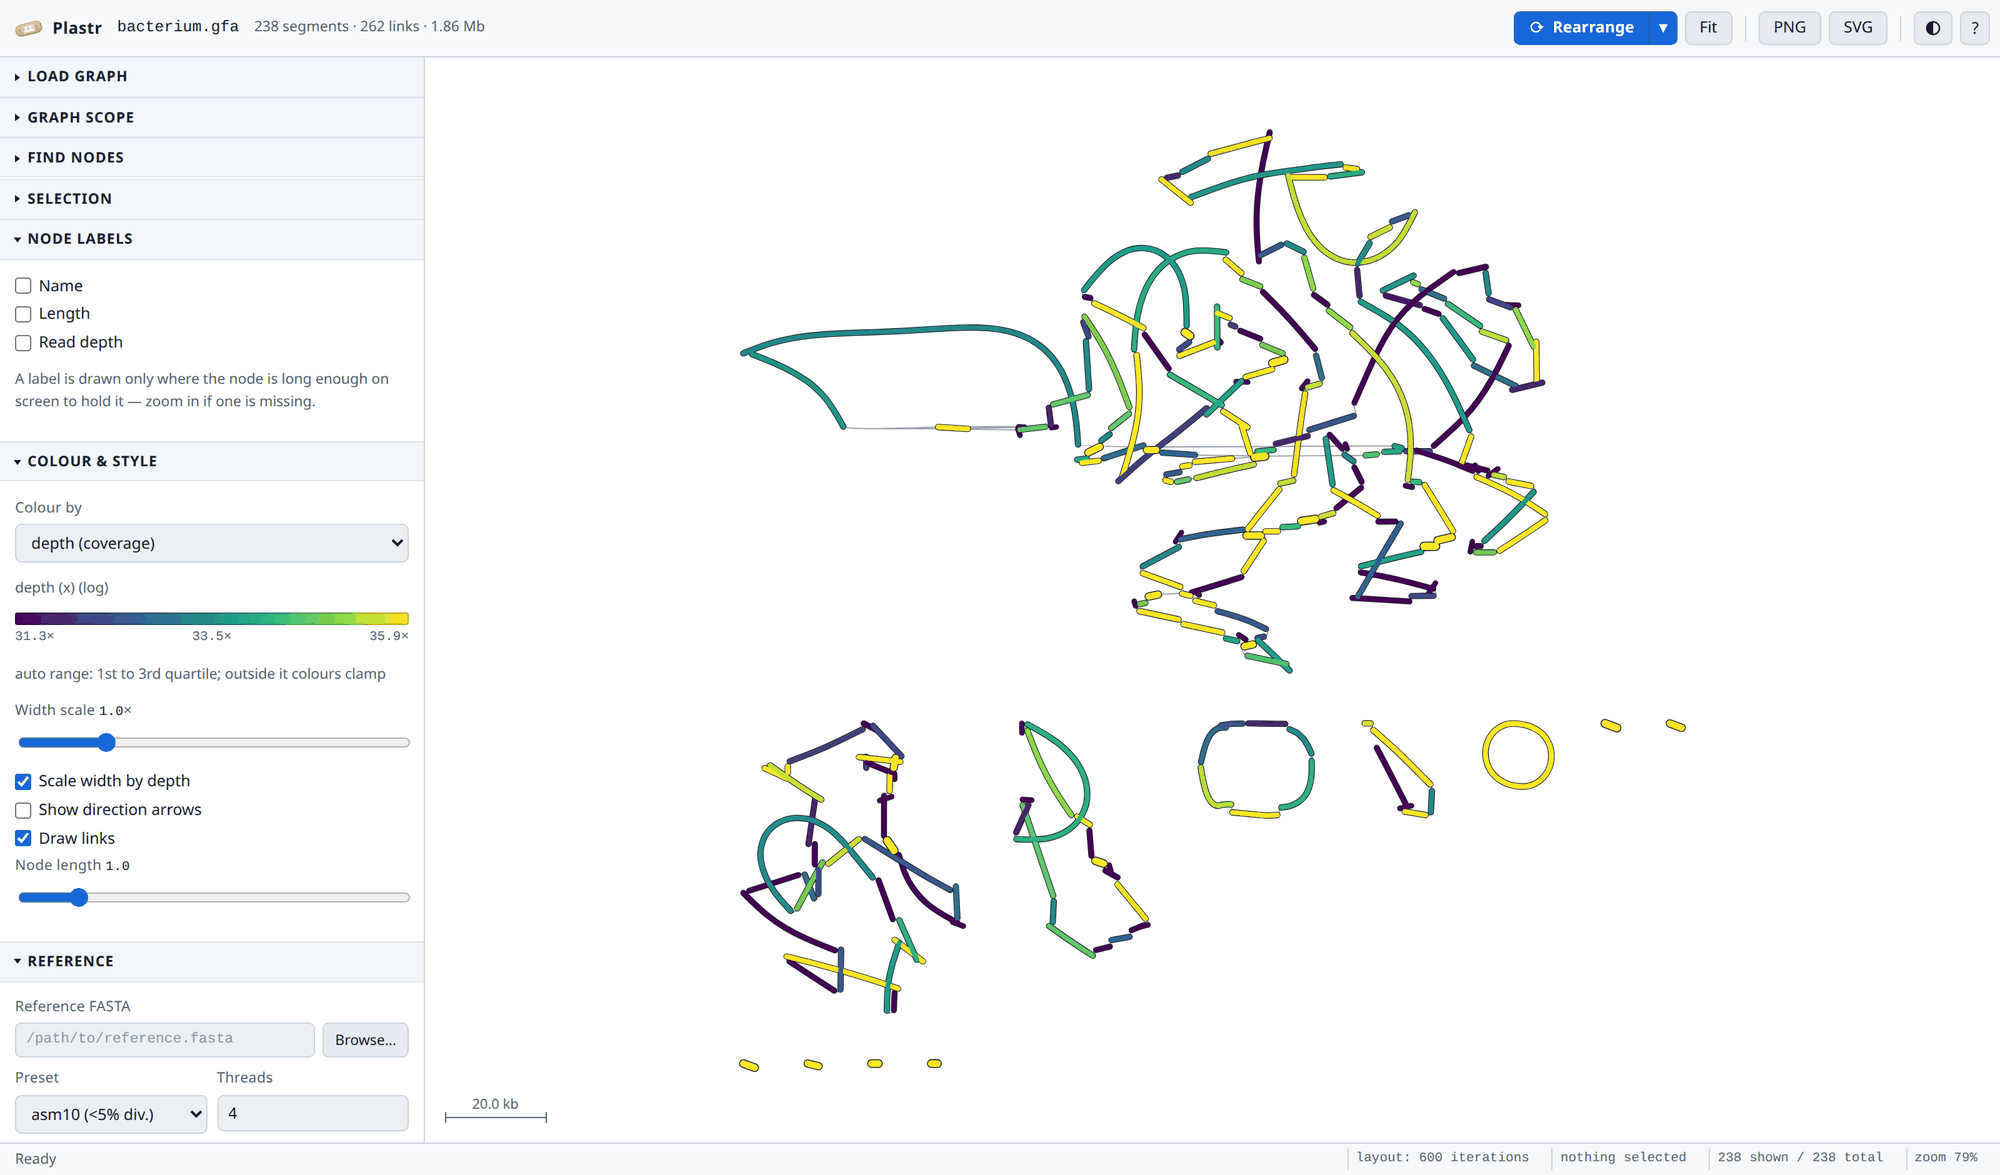
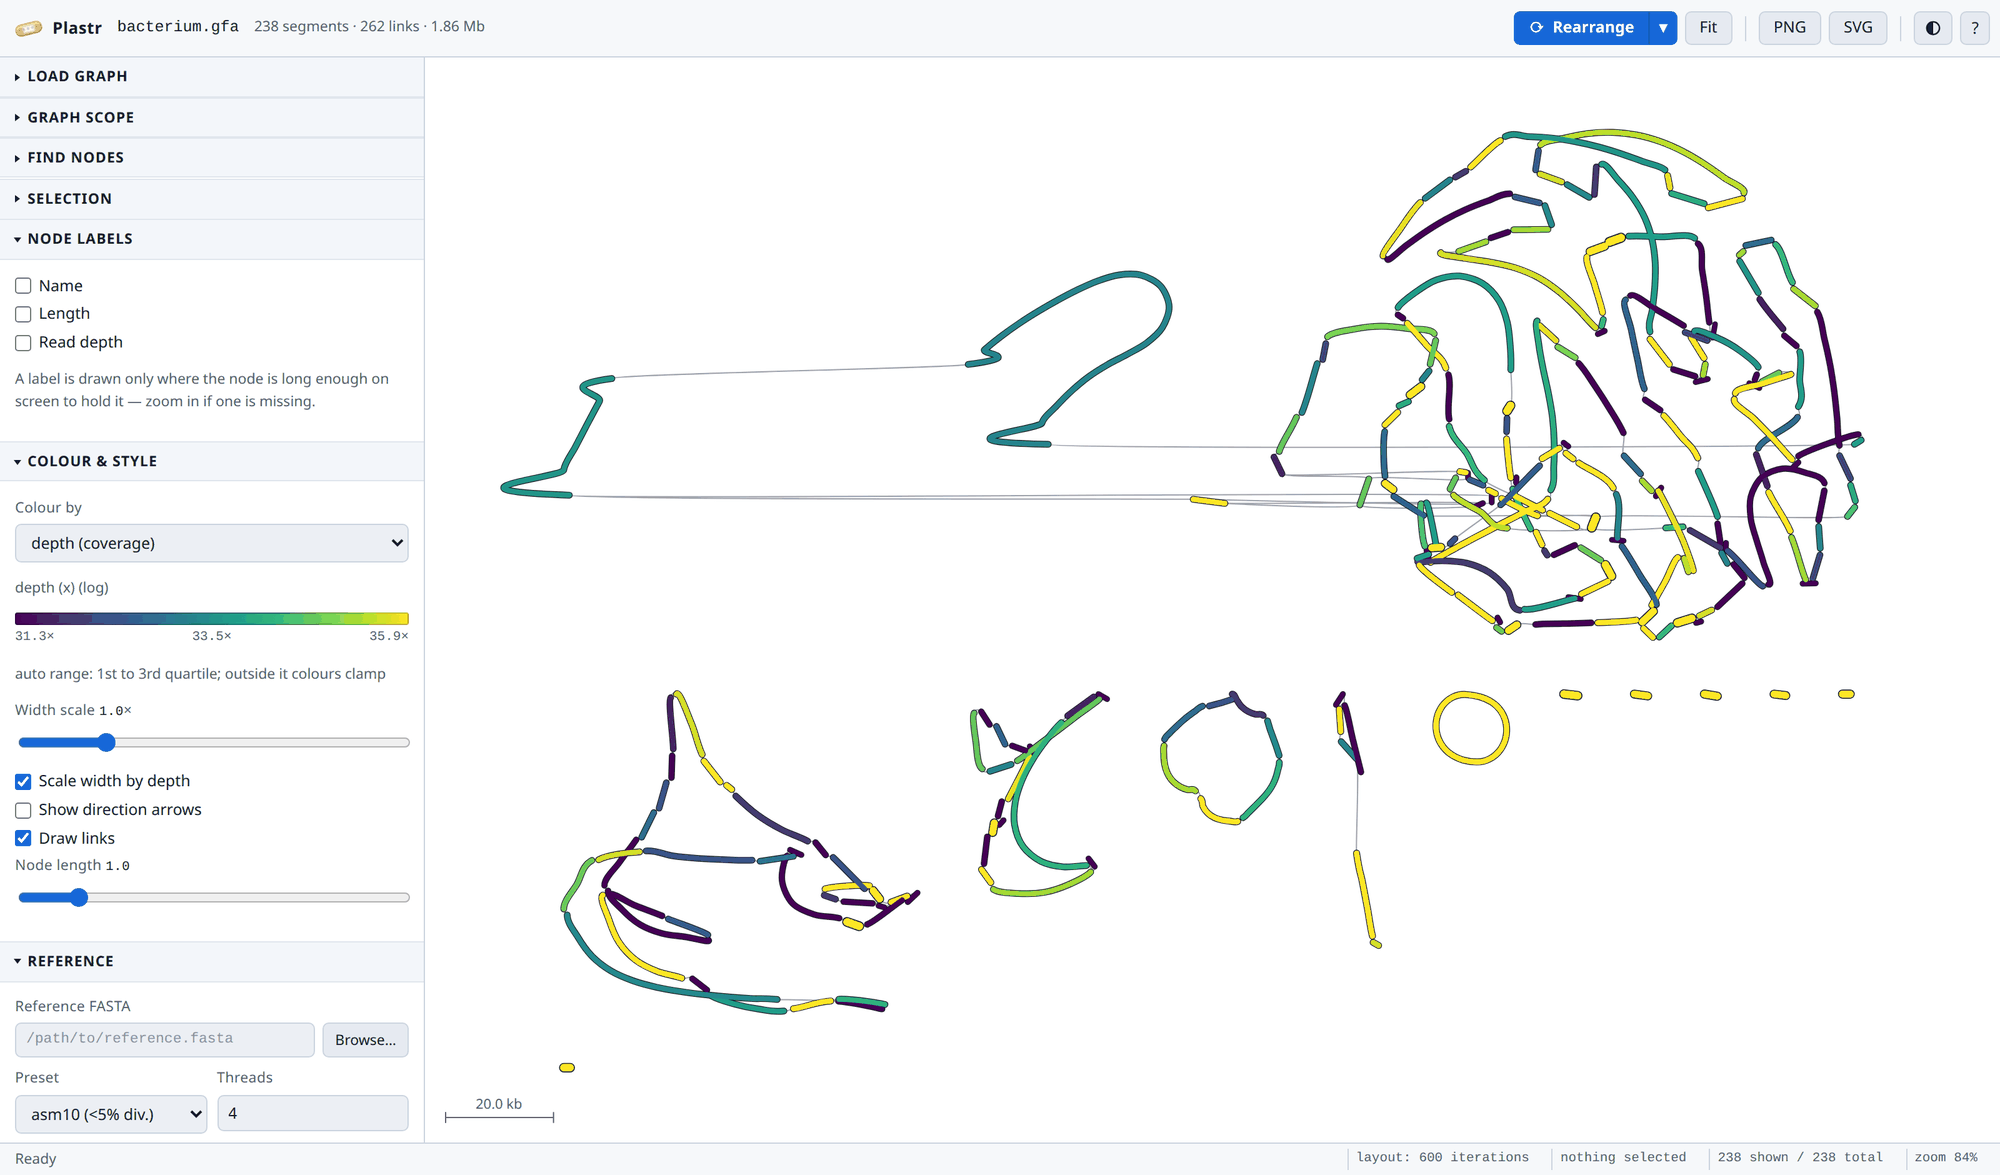
Make the drawing flow instead of zigzag
The graph looked shaky: contigs read as straight bars meeting at angles rather
than as strands. Measured on the demo graph, the turn where two contigs join
averaged 62 degrees and the worst tenth turned through 135 -- almost doubling
back -- while the turns *within* a contig averaged only 9. The kinks were all
at the joins, and nothing in the layout or the renderer cared about them.

Two causes, one in each half.

The layout had no preference for consecutive contigs lining up. Adding one is
the obvious fix and is a trap: a straightening term has no length limit, so
whole chains pull straight and the drawing stretches. At full strength on every
join the graph went from 952 units across to 6522, and from square to a 10:1
streak -- smoother by the numbers, useless to look at. Raising repulsion
instead trades the kinks back for long link leaders, which is the failure the
calibration work fixed in the first place.

So the relaxation is thresholded: turns gentler than 55 degrees are left
exactly as the layout put them, and only real kinks are eased, ramped in so
there is no step at the threshold. The worst tenth of joins comes down from 135
degrees to 93, links stay tight at 0.30 units, and the graph grows from 952
units to 1229 rather than to 6522. Two tests pin both halves of that: it must
not stretch the layout, and it must leave an already-straight chain alone.

The renderer smoothed each contig over its own vertices, and a contig has three
[…]

diff --git a/src/plastr/web/js/layout.js b/src/plastr/web/js/layout.js
@@ -245,6 +245,15 @@ export const DEFAULT_PARAMS = Object.freeze({
   // repulsion and the link springs, weak enough that dragging a contig still
   // deforms the ring under the pointer rather than fighting it.
   ringStrength: 0.35,
+  // Off. Straightening the joins between contigs looks like the way to make a
+  // chain flow, and it is a trap: the term has no length limit, so it pulls
+  // whole chains straight and the drawing stretches into a line. Measured on
+  // the demo graph, even 0.05 took the extent from 952 to 3777 units and the
+  // aspect ratio from 1.0 to 5.1. Smoothness across joins is a property of the
+  // drawing, not of the layout, and is handled in the renderer instead.
+  jointStrength: 0.35,
+  // Turns gentler than this (degrees) are left exactly as the layout put them.
+  jointRelaxAbove: 55,
   // Curvature stiffness, applied over triples of consecutive vertices. This is
   // what lets a polyline carry many vertices without buckling, so long contigs
   // can bend into sweeping curves instead of being held straight by starving
@@ -336,6 +345,13 @@ export class LayoutEngine {
 
   particleOf(seg, whichEnd) {
     return whichEnd === END_END ? this.segP0[seg] + this.segK[seg] - 1 : this.segP0[seg];
+  }
+
+  /** The vertex one step inward from an end; the end itself if there is none. */
+  innerOf(seg, whichEnd) {
+    const k = this.segK[seg];
+    if (k < 2) return this.segP0[seg];
+    return whichEnd === END_END ? this.segP0[seg] + k - 2 : this.segP0[seg] + 1;
   }
 
   /**
@@ -586,6 +602,19 @@ export class LayoutEngine {
     // vertices it has -- which is what lets long contigs sweep instead of
     // buckling into a zigzag. Bandage gets the same effect from FMMM's
     // multilevel solve; this is the cheap local equivalent.
+    // Pull the middle of a triple towards the midpoint of its neighbours, and
+    // push the neighbours back by half each so the term cannot translate the
+    // chain as a whole -- only straighten it.
+    const smoothTriple = (a, b, c, k) => {
+      const mx = (px[a] + px[c]) * 0.5;
+      const my = (py[a] + py[c]) * 0.5;
+      const ux = (mx - px[b]) * k;
+      const uy = (my - py[b]) * k;
+      if (mobile[b]) { fx[b] += ux * 2; fy[b] += uy * 2; }
+      if (mobile[a]) { fx[a] -= ux; fy[a] -= uy; }
+      if (mobile[c]) { fx[c] -= ux; fy[c] -= uy; }
+    };
+
     const kc = P.curvature || 0;
     if (kc > 0) {
       for (let s = 0; s < nSegments; s++) {
@@ -598,17 +627,52 @@ export class LayoutEngine {
         const first = closed ? 0 : 1;
         const last = closed ? k - 1 : k - 2;
         for (let i = first; i <= last; i++) {
-          const a = p0 + (i - 1 + k) % k, b = p0 + i, c = p0 + (i + 1) % k;
-          const mx = (px[a] + px[c]) * 0.5;
-          const my = (py[a] + py[c]) * 0.5;
-          const ux = (mx - px[b]) * kc;
-          const uy = (my - py[b]) * kc;
-          if (mobile[b]) { fx[b] += ux * 2; fy[b] += uy * 2; }
-          // Equal and opposite, split over the two neighbours, so the term
-          // cannot translate the chain as a whole.
-          if (mobile[a]) { fx[a] -= ux; fy[a] -= uy; }
-          if (mobile[c]) { fx[c] -= ux; fy[c] -= uy; }
+          smoothTriple(p0 + (i - 1 + k) % k, p0 + i, p0 + (i + 1) % k, kc);
         }
+      }
+    }
+
+    /* --- 3b2. straighten the joins between contigs ---------------------- */
+    // The curvature term above only smooths a contig's own vertices, and a
+    // typical contig has three of them, so it is nearly a straight bar. What
+    // the eye actually follows is the chain of bars, and nothing wanted
+    // consecutive bars to line up: joins turned through 62 degrees on average
+    // and the worst tenth doubled back, which is what made the drawing look
+    // shaky rather than fluid.
+    //
+    // Applying the same curvature over the triples that span a link -- the
+    // vertex before the join, the join, and the vertex after -- lets a run of
+    // contigs settle into one sweeping curve. Where several contigs meet, the
+    // terms compete and balance, which is the fan a branch point should have.
+    const kj = P.jointStrength || 0;
+    if (kj > 0) {
+      // Only the kinks. Smoothing every join pulls whole chains straight, and a
+      // straight chain takes more room than a curled one, so the drawing
+      // stretches: at full strength on every join the demo graph went from 952
+      // units across to 6522 and from square to a 10:1 streak. Leaving turns
+      // gentler than `jointRelaxAbove` alone keeps the layout's own shape and
+      // spends the force only where the eye actually catches a corner.
+      const cosLimit = Math.cos((P.jointRelaxAbove || 50) * Math.PI / 180);
+      const relax = (a, b, c) => {
+        const ux = px[b] - px[a], uy = py[b] - py[a];
+        const vx2 = px[c] - px[b], vy2 = py[c] - py[b];
+        const lu = Math.hypot(ux, uy), lv = Math.hypot(vx2, vy2);
+        if (lu < 1e-6 || lv < 1e-6) return;
+        const cos = (ux * vx2 + uy * vy2) / (lu * lv);
+        if (cos >= cosLimit) return; // already gentle enough to leave alone
+        // Ramp in over the sharper half of the range so there is no step at the
+        // threshold, which would make contigs flicker between two shapes.
+        smoothTriple(a, b, c, kj * Math.min(1, (cosLimit - cos) / 1.2));
+      };
+      for (let l = 0; l < this.nLinks; l++) {
+        if (this.linkFrom[l] === this.linkTo[l]) continue;
+        const a = this.particleOf(this.linkFrom[l], this.linkFromEnd[l]);
+        const b = this.particleOf(this.linkTo[l], this.linkToEnd[l]);
+        const ai = this.innerOf(this.linkFrom[l], this.linkFromEnd[l]);
+        const bi = this.innerOf(this.linkTo[l], this.linkToEnd[l]);
+        if (ai === a || bi === b) continue;
+        relax(ai, a, b);
+        relax(a, b, bi);
       }
     }
 

diff --git a/src/plastr/web/js/render.js b/src/plastr/web/js/render.js
@@ -18,7 +18,7 @@
  *   exactly what you see.
  */
 
-import { fmtBp, fmtNum, perBaseScaleFor } from './graph.js';
+import { fmtBp, fmtNum, perBaseScaleFor, END_START, END_END } from './graph.js';
 
 /* ====================================================================== */
 /*  Colour ramps                                                           */
@@ -70,6 +70,14 @@ const WIDTH_BUCKETS = 48;
  * the curve's reach matches the gap the layout leaves.
  */
 const EDGE_EXTENSION_WORLD = 5;
+
+/**
+ * Catmull-Rom tension, as the fraction of the neighbour span that becomes the
+ * Bezier control arm. 1/6 is the textbook value that makes the spline pass
+ * through its points with a continuous tangent; a little under keeps a sharp
+ * turn from overshooting into a loop.
+ */
+const SPLINE_TENSION = 0.155;
 
 /** Widest a node body should get, in CSS pixels, when a fit zooms in. */
 const MAX_NODE_BODY_PX = 44;
@@ -963,6 +971,47 @@ export class Renderer {
    * `trimPx` stops the stroke short of the final vertex, leaving room for the
    * arrowhead wedge (`_arrowPath`) to finish the node.
    */
+
+  /**
+   * The vertex just inside each neighbouring contig, for every contig end.
+   *
+   * A turn between two contigs used to happen entirely in the short link
+   * between them, which put a corner in a drawing that should read as one
+   * flowing strand. Knowing what is on the far side of each end lets the spline
+   * enter and leave a contig already aimed at its neighbours, so the turn is
+   * spread along the contigs instead of concentrated at the join.
+   *
+   * Cached per graph revision: this walks the adjacency, and paint() runs on
+   * every frame.
+   */
+  _neighbourVertices() {
+    const g = this.graph;
+    if (this._ghostRev === g.revision && this._ghostStart) {
+      return { start: this._ghostStart, end: this._ghostEnd };
+    }
+    const n = g.segments.length;
+    const start = new Int32Array(n).fill(-1);
+    const end = new Int32Array(n).fill(-1);
+    for (const seg of g.segments) {
+      for (const e of g.adj[seg.idx] || []) {
+        if (e.seg === seg.idx) continue; // a self-link has no far side
+        const other = g.segments[e.seg];
+        if (!other) continue;
+        // One step into the neighbour, so the direction is the neighbour's, not
+        // the near-zero step across the gap.
+        const ghost = e.otherEnd === END_END
+          ? other.p0 + Math.max(0, other.k - 2)
+          : other.p0 + Math.min(other.k - 1, 1);
+        const slot = e.selfEnd === END_START ? start : end;
+        if (slot[seg.idx] < 0) slot[seg.idx] = ghost;
+      }
+    }
+    this._ghostRev = g.revision;
+    this._ghostStart = start;
+    this._ghostEnd = end;
+    return { start, end };
+  }
+
   _segPath(ctx, si, smooth, trimPx = 0) {
     const g = this.graph;
     const seg = g.segments[si];
@@ -1004,22 +1053,53 @@ export class Renderer {
         ex -= dx * t; ey -= dy * t;
       }
     }
-    if (!smooth || k === 2) {
+    if (!smooth) {
       ctx.moveTo(px[p0] * s + ox, py[p0] * s + oy);
       for (let i = 1; i < k - 1; i++) ctx.lineTo(px[p0 + i] * s + ox, py[p0 + i] * s + oy);
       ctx.lineTo(ex, ey);
       return;
     }
-    // Quadratic spline through particle midpoints: smooth without overshoot.
-    ctx.moveTo(px[p0] * s + ox, py[p0] * s + oy);
-    for (let i = 1; i < k - 1; i++) {
-      const cxp = px[p0 + i] * s + ox, cyp = py[p0 + i] * s + oy;
-      const end = i + 1 === k - 1;
-      const nxp = end ? ex : px[p0 + i + 1] * s + ox;
-      const nyp = end ? ey : py[p0 + i + 1] * s + oy;
-      ctx.quadraticCurveTo(cxp, cyp, (cxp + nxp) / 2, (cyp + nyp) / 2);
+
+    // Catmull-Rom through the contig's own vertices, with a control point taken
+    // from the contig on the far side of each end. A contig has three vertices
+    // on average, so a spline over its own points alone is barely a curve and
+    // the drawing is really a chain of straight bars meeting at angles -- the
+    // thing that makes a graph look shaky rather than fluid. Borrowing the
+    // neighbours' vertices bends each contig towards what it joins, and the
+    // turn is spread over two contig bodies instead of one short link.
+    const ghosts = this._neighbourVertices();
+    const gs = ghosts.start[si];
+    const ge = ghosts.end[si];
+    const X = (i) => px[p0 + i] * s + ox;
+    const Y = (i) => py[p0 + i] * s + oy;
+
+    // Point before the first vertex, and after the last.
+    let bx, by;
+    if (gs >= 0) { bx = px[gs] * s + ox; by = py[gs] * s + oy; }
+    else { bx = 2 * X(0) - X(1); by = 2 * Y(0) - Y(1); }   // mirror: straight out
+    let axx, ayy;
+    if (ge >= 0 && trimPx <= 0) { axx = px[ge] * s + ox; ayy = py[ge] * s + oy; }
+    else { axx = 2 * ex - X(k - 2); ayy = 2 * ey - Y(k - 2); }
+
+    const pt = (i) => {
+      if (i < 0) return [bx, by];
+      if (i > k - 1) return [axx, ayy];
+      if (i === k - 1) return [ex, ey];
+      return [X(i), Y(i)];
+    };
+
+    ctx.moveTo(X(0), Y(0));
+    for (let i = 0; i < k - 1; i++) {
+      const [x0, y0] = pt(i - 1);
+      const [x1, y1] = pt(i);
+      const [x2, y2] = pt(i + 1);
+      const [x3, y3] = pt(i + 2);
+      ctx.bezierCurveTo(
+        x1 + (x2 - x0) * SPLINE_TENSION, y1 + (y2 - y0) * SPLINE_TENSION,
+        x2 - (x3 - x1) * SPLINE_TENSION, y2 - (y3 - y1) * SPLINE_TENSION,
+        x2, y2,
+      );
     }
-    ctx.lineTo(ex, ey);
   }
 
   /**
